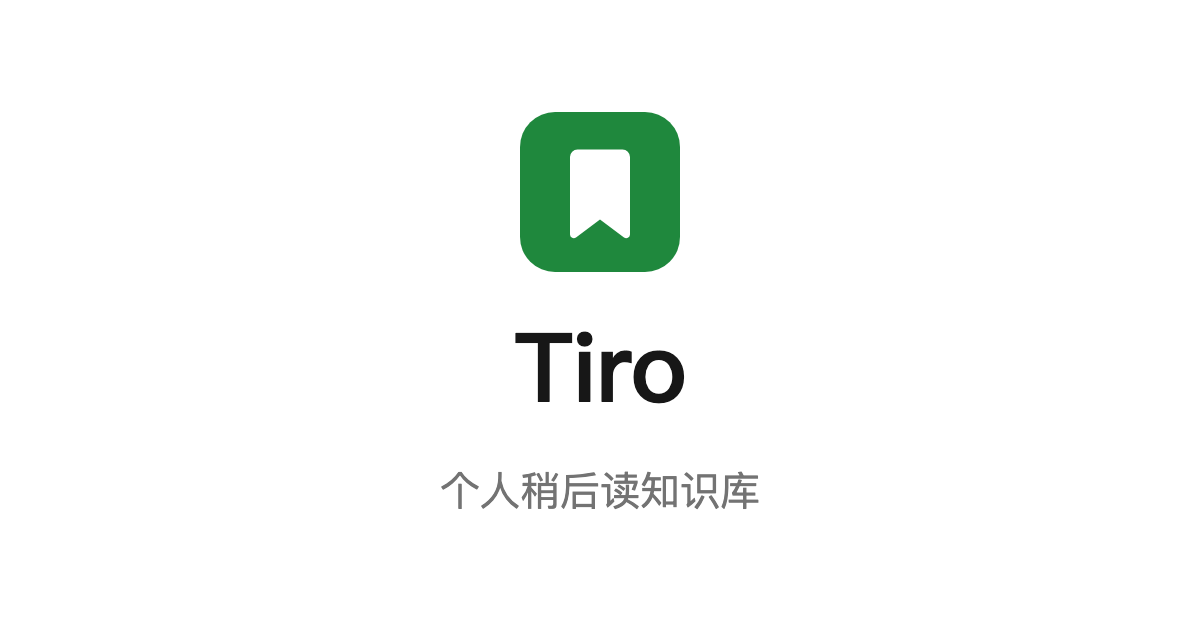
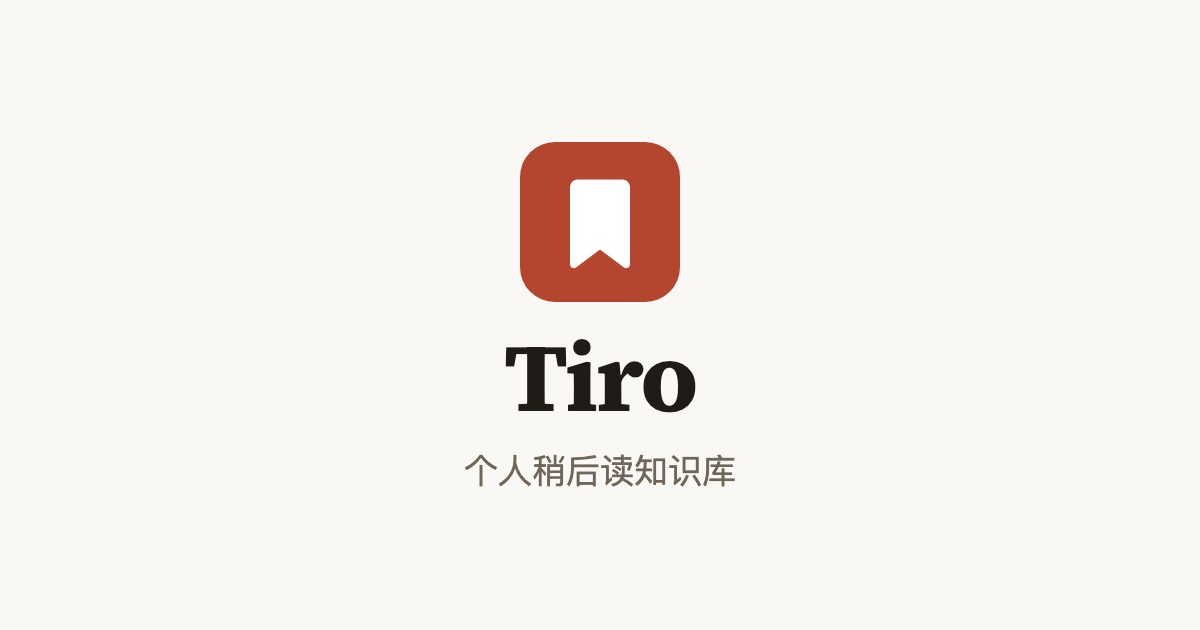
fix(site): regenerate raster brand assets in terracotta
Review finding (codex, PR #16): favicon.svg and the header mark went
terracotta but the rasters Base.astro serves — favicon-32.png,
favicon.ico, apple-touch-icon.png, og.png — stayed green, so Safari
tabs, home-screen icons and social cards kept the old identity.

favicon-32/favicon.ico are byte copies of the freshly regenerated
extension icon-32 (cmp-verified, preserving the documented
relationship); the touch icon re-renders full-bleed on the terracotta
ground; og.png is rebuilt in the redesign's language (paper background,
serif wordmark loaded from the site's own @fontsource files). The og
composition HTML was never committed the first time around and had to
be reconstructed — it now lives in the icons README so the next
recolor doesn't repeat that archaeology.

Changed region(s): [[0.4317, 0.1508, 0.5858, 0.4825], [0.37, 0.7238, 0.6475, 0.8143], [0.4008, 0.5127, 0.5858, 0.6635]]

diff --git a/apps/extension/icons/README.md b/apps/extension/icons/README.md
@@ -82,12 +82,13 @@ committed, not built:
   browser accepts that at `/favicon.ico`, and it spares the repo an ico
   toolchain for the one path browsers request blindly.
 - `apple-touch-icon.png` — 180×180, rendered with the same headless-Chrome
-  recipe but with `background:#1f883d` on the wrapper and the image at
+  recipe but with `background:#b4452f` on the wrapper and the image at
   180px: the rounded rect blends into the background, giving the full-bleed
   square iOS expects (iOS applies its own corner mask; transparent corners
   would go black).
-- `og.png` — the 1200×630 social card: white background, centered 160px
-  mark, "Tiro" and the tagline, same wrapper technique with
+- `og.png` — the 1200×630 social card: the site's paper background, centered
+  160px mark, "Tiro" in Source Serif 4 (loaded straight from the site's
+  node_modules via @font-face) and the tagline, same wrapper technique with
   `--window-size=1200,630`. Render it on macOS (the tagline needs
   PingFang SC).
 
@@ -95,7 +96,7 @@ committed, not built:
 tmp="$(mktemp -d)"
 cat > "$tmp/apple-touch-icon.html" <<HTML
 <!doctype html><meta charset="utf-8">
-<style>html,body{margin:0;padding:0;background:#1f883d}
+<style>html,body{margin:0;padding:0;background:#b4452f}
 img{display:block;width:180px;height:180px}</style>
 <img src="file://$PWD/apps/site/public/favicon.svg" alt="">
 HTML
@@ -103,4 +104,30 @@ HTML
   --force-device-scale-factor=1 --window-size=180,180 \
   --screenshot=apps/site/public/apple-touch-icon.png \
   "file://$tmp/apple-touch-icon.html"
+
+cat > "$tmp/og.html" <<HTML
+<!doctype html><meta charset="utf-8">
+<style>
+@font-face {
+  font-family: "Source Serif 4";
+  font-weight: 700;
+  src: url("file://$PWD/apps/site/node_modules/@fontsource/source-serif-4/files/source-serif-4-latin-700-normal.woff2") format("woff2");
+}
+html,body{margin:0;padding:0;background:#faf8f5}
+body{width:1200px;height:630px;display:flex;flex-direction:column;
+  align-items:center;justify-content:center;gap:28px}
+img{display:block;width:160px;height:160px}
+h1{margin:0;font:700 96px/1 "Source Serif 4","Songti SC",serif;
+  letter-spacing:-0.02em;color:#1f1b16}
+p{margin:0;font:400 34px/1 -apple-system,"PingFang SC",sans-serif;
+  color:#6f6659}
+</style>
+<img src="file://$PWD/apps/site/public/favicon.svg" alt="">
+<h1>Tiro</h1>
+<p>个人稍后读知识库</p>
+HTML
+"$CHROME" --headless --disable-gpu --hide-scrollbars \
+  --force-device-scale-factor=1 --window-size=1200,630 \
+  --screenshot=apps/site/public/og.png \
+  "file://$tmp/og.html"
 ```

diff --git a/CHANGELOG.md b/CHANGELOG.md
@@ -13,8 +13,9 @@ versions follow the `0.x` line while Tiro is a personal system.
   the stock neutrals and the green mark), self-hosted Source Serif 4 for
   titles and article prose (CJK falls back to system serifs), refined cards,
   a segmented reader toggle, and Pagefind search themed to match both color
-  schemes (dark-mode search was previously unstyled). PNG favicons and
-  `og.png` still show the old green pending regeneration.
+  schemes (dark-mode search was previously unstyled). The full mark moved
+  with it: extension icons, popup/options primary buttons, PNG favicons,
+  the touch icon, and a rebuilt `og.png` social card are all terracotta.
 
 - The site is published at <https://tiro.ainaive.com/> (Cloudflare Pages
   custom domain). The generated `*.pages.dev` URL keeps working.
